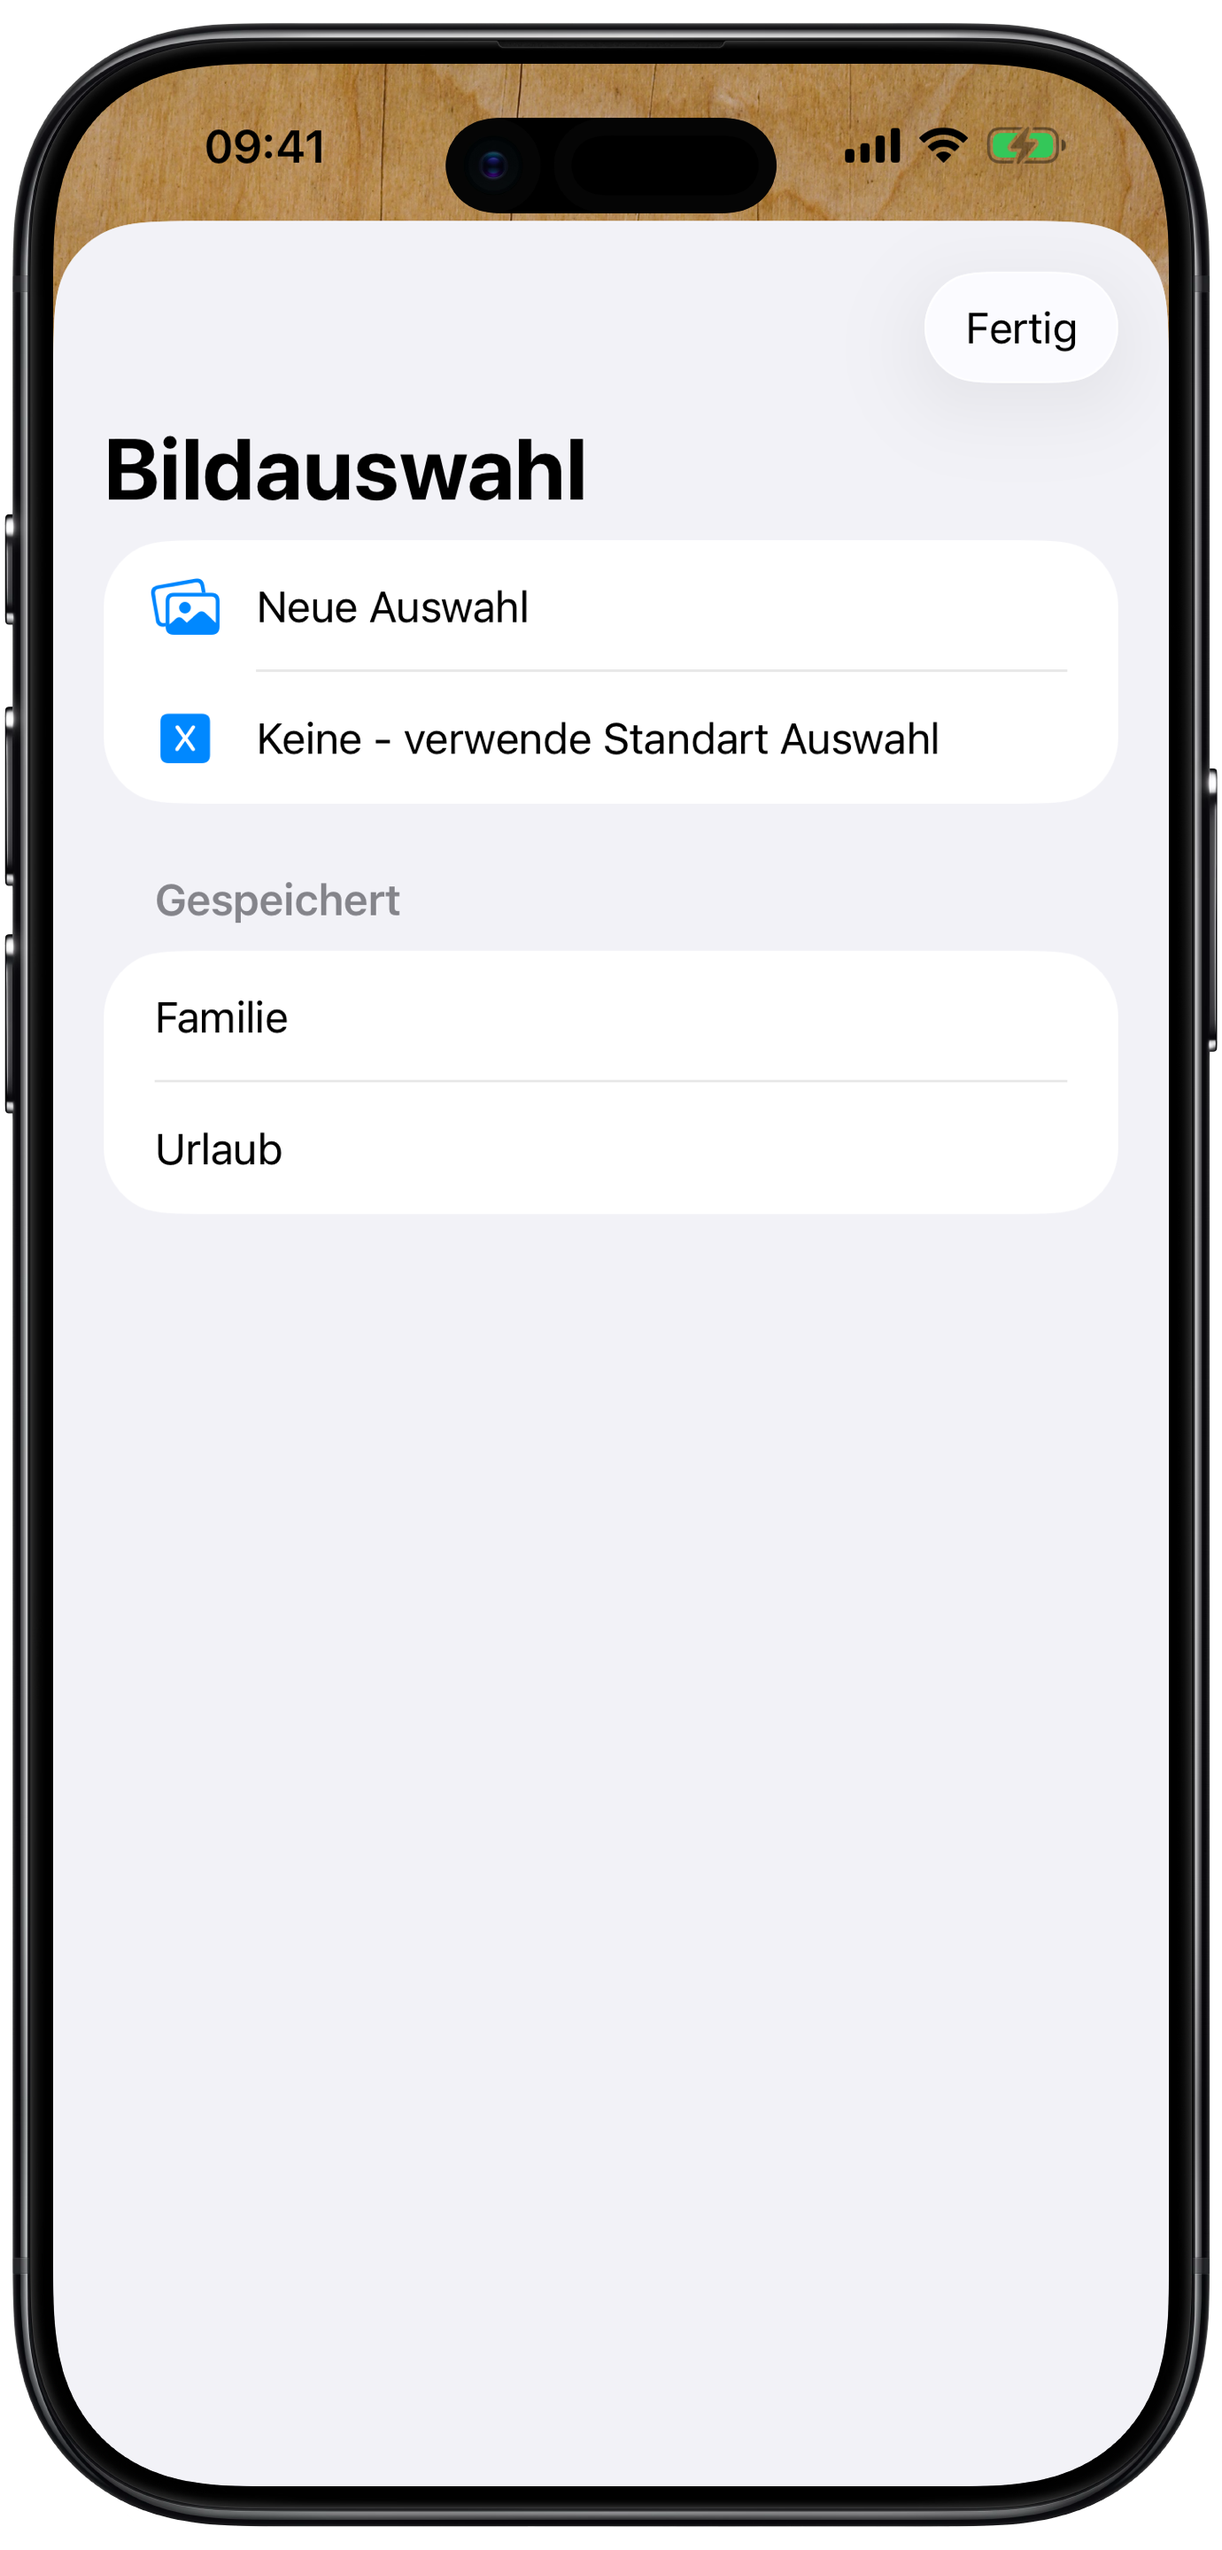
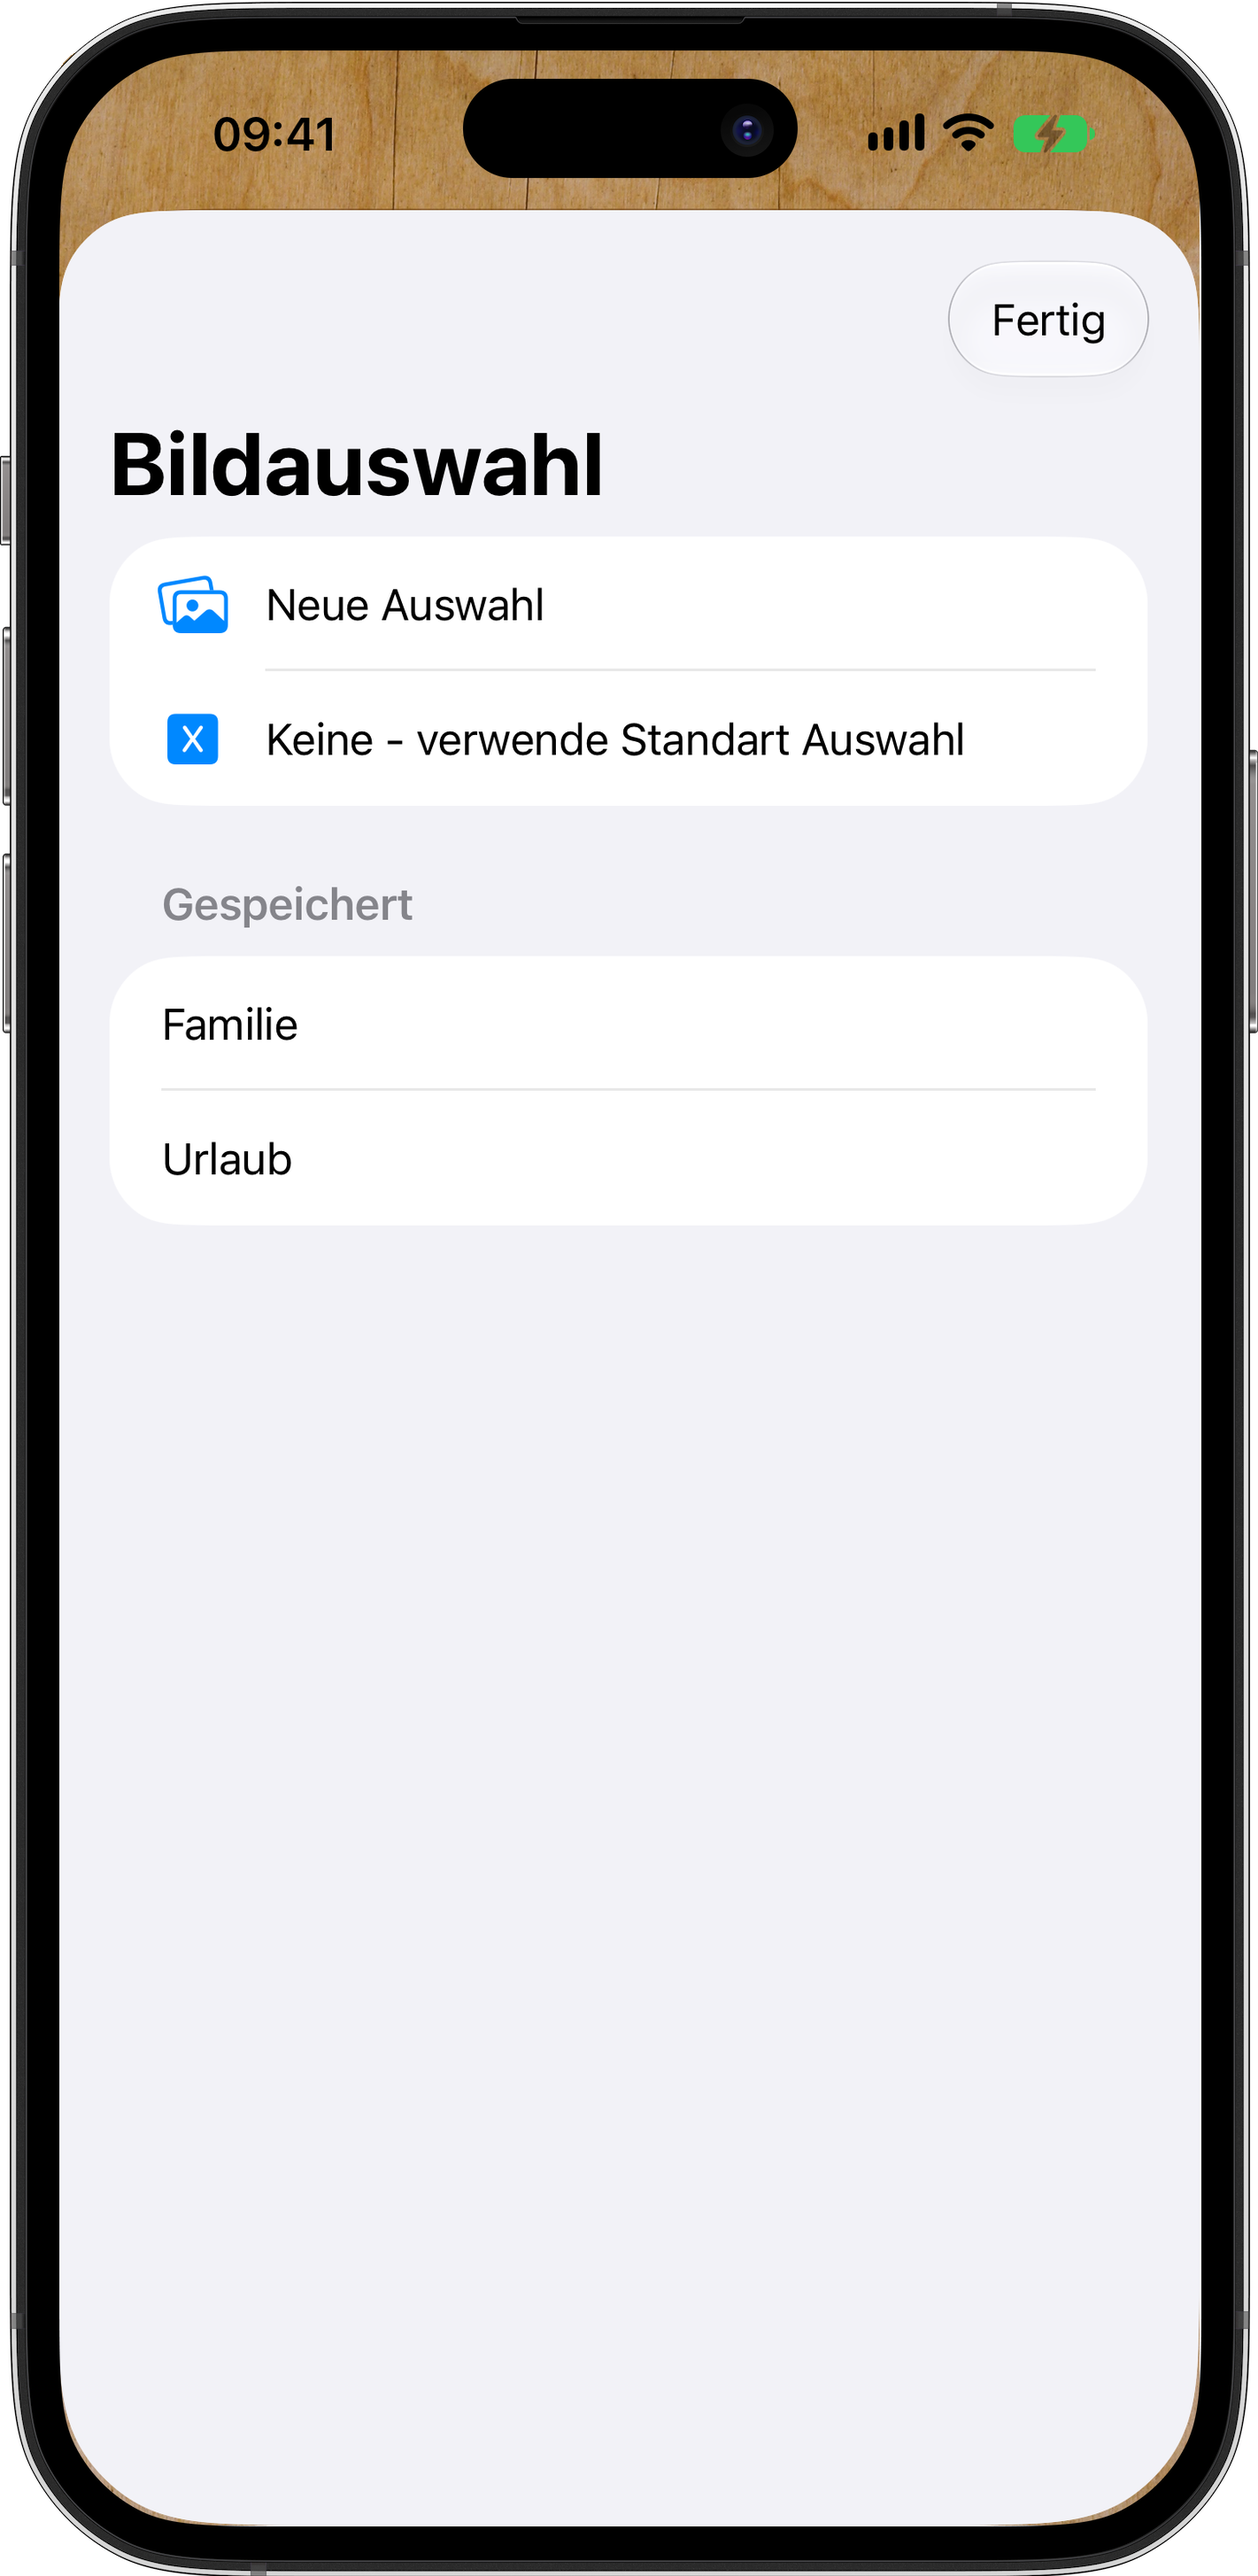
Refresh the screenshot carousel for the 2.0 release
The carousel still showed a build from before the toolbar was grouped: the
five controls drawn as separate circular buttons in a 3+2 block, which no
version of the app has looked like since #92. These are recaptured from the
2.0 build, so they also carry the new stacked arrangement — on a phone the
full-width toolbar capsule now sits above the "Moves" panel rather than
beneath it.

All twenty files keep their existing names, so the forty <img src>
references in index.html and de/index.html are untouched and the CSS, which
sizes by width with height:auto, needs no change either.

tools/make-device-mockups.py is the missing half of the story. The site
wants a different artifact from the App Store lineup — a device on a
transparent background with no caption and no gradient, because the page
supplies its own headings — and Tools/EasyFrame in the iOS repository only
emits the store style. The script reproduces the geometry of EasyFrame's
FramedScreenshotView and skips ScreenshotDesignView's caption band and
background, so the next refresh is one command rather than archaeology.

The new set is also slightly smaller than the one it replaces: 116 MB
against roughly 160 MB.

🤖 Generated with [Claude Code](https://claude.com/claude-code)

diff --git a/tools/make-device-mockups.py b/tools/make-device-mockups.py
@@ -1,0 +1,97 @@
+#!/usr/bin/env python3
+"""Render the carousel's device-mockup PNGs from Photo-Memory-iOS raw captures.
+
+The site wants a different artifact from the App Store lineup: a device on a
+*transparent* background with no caption and no gradient, because the page supplies its
+own headings. `Tools/EasyFrame` in the iOS repository only emits the store style, so this
+reproduces the geometry of its `FramedScreenshotView` — screenshot clipped to the screen
+rect, bezel art composited over it, transparent everywhere else — and skips the
+`ScreenshotDesignView` caption band and background entirely.
+
+Every constant below is lifted from, and must stay in step with,
+`Tools/EasyFrame/Sources/EasyFrameCommand/Model/SupportedDevice.swift`.
+
+Usage:
+    make screenshots            # in Photo-Memory-iOS, to refresh raw-screenshots/
+    python3 tools/make-device-mockups.py [--ios-repo PATH]
+
+Writes straight over `images/screenshots/` (en-US) and `de/images/screenshots/` (de-DE),
+keeping the filenames the two index.html files reference.
+"""
+import argparse
+from pathlib import Path
+
+from PIL import Image, ImageDraw
+
+# deviceImageName, deviceScreenSize, devicePositioningOffset, clipCornerRadius
+DEVICES = {
+    "iPhone": ("Apple iPhone 14 Pro Max Black.png", (1290, 2796), (0, 2), 35),
+    "iPad": ("Apple iPad Pro (12.9-inch) (4th generation) Space Gray.png", (2048, 2732), (2, 0), 35),
+}
+
+MOTIFS = ["01-Photos", "02-Selection", "03-Players", "04-Sizes", "05-HighScores"]
+
+# The English page lives at the root; the German one under de/.
+LOCALES = {"en-US": "", "de-DE": "de/"}
+
+
+def rounded(image, radius):
+    """Clip to the screen's rounded rectangle, so the bezel's inner corners stay visible."""
+    mask = Image.new("L", image.size, 0)
+    ImageDraw.Draw(mask).rounded_rectangle(
+        [0, 0, image.size[0] - 1, image.size[1] - 1], radius=radius, fill=255
+    )
+    clipped = image.convert("RGBA")
+    clipped.putalpha(mask)
+    return clipped
+
+
+def render(device, art_dir, source, destination):
+    art_name, screen_size, offset, radius = DEVICES[device]
+
+    bezel = Image.open(art_dir / art_name).convert("RGBA")
+    canvas = Image.new("RGBA", bezel.size, (0, 0, 0, 0))
+
+    screen = rounded(Image.open(source).convert("RGBA").resize(screen_size, Image.LANCZOS), radius)
+
+    # `FramedScreenshotView` is a ZStack: both children are centred and only the bezel
+    # carries `devicePositioningOffset`.
+    centre_x, centre_y = canvas.size[0] // 2, canvas.size[1] // 2
+    canvas.alpha_composite(screen, (centre_x - screen_size[0] // 2, centre_y - screen_size[1] // 2))
+    canvas.alpha_composite(bezel, (max(0, offset[0]), max(0, offset[1])))
+
+    destination.parent.mkdir(parents=True, exist_ok=True)
+    canvas.save(destination, "PNG", optimize=True)
+    return canvas.size
+
+
+def main():
+    site = Path(__file__).resolve().parent.parent
+
+    parser = argparse.ArgumentParser(description=__doc__)
+    parser.add_argument(
+        "--ios-repo",
+        type=Path,
+        default=site.parent / "Photo-Memory-iOS",
+        help="Checkout of Photo-Memory-iOS holding Screenshots/raw-screenshots and Tools/EasyFrame.",
+    )
+    args = parser.parse_args()
+
+    art_dir = args.ios_repo / "Tools/EasyFrame/Sources/Resources"
+    raw_dir = args.ios_repo / "Screenshots/raw-screenshots"
+
+    for path, what in ((art_dir, "bezel art"), (raw_dir, "raw screenshots")):
+        if not path.is_dir():
+            raise SystemExit(f"error: no {what} at {path} — run 'make screenshots' in the iOS repo first.")
+
+    for locale, prefix in LOCALES.items():
+        for device in DEVICES:
+            for motif in MOTIFS:
+                source = raw_dir / locale / f"{device}-{motif}.png"
+                name = f"{device.lower()}-{motif.lower()}-framed.png"
+                size = render(device, art_dir, source, site / (prefix + "images/screenshots") / name)
+                print(f"{locale} {name} -> {size[0]}x{size[1]}")
+
+
+if __name__ == "__main__":
+    main()
